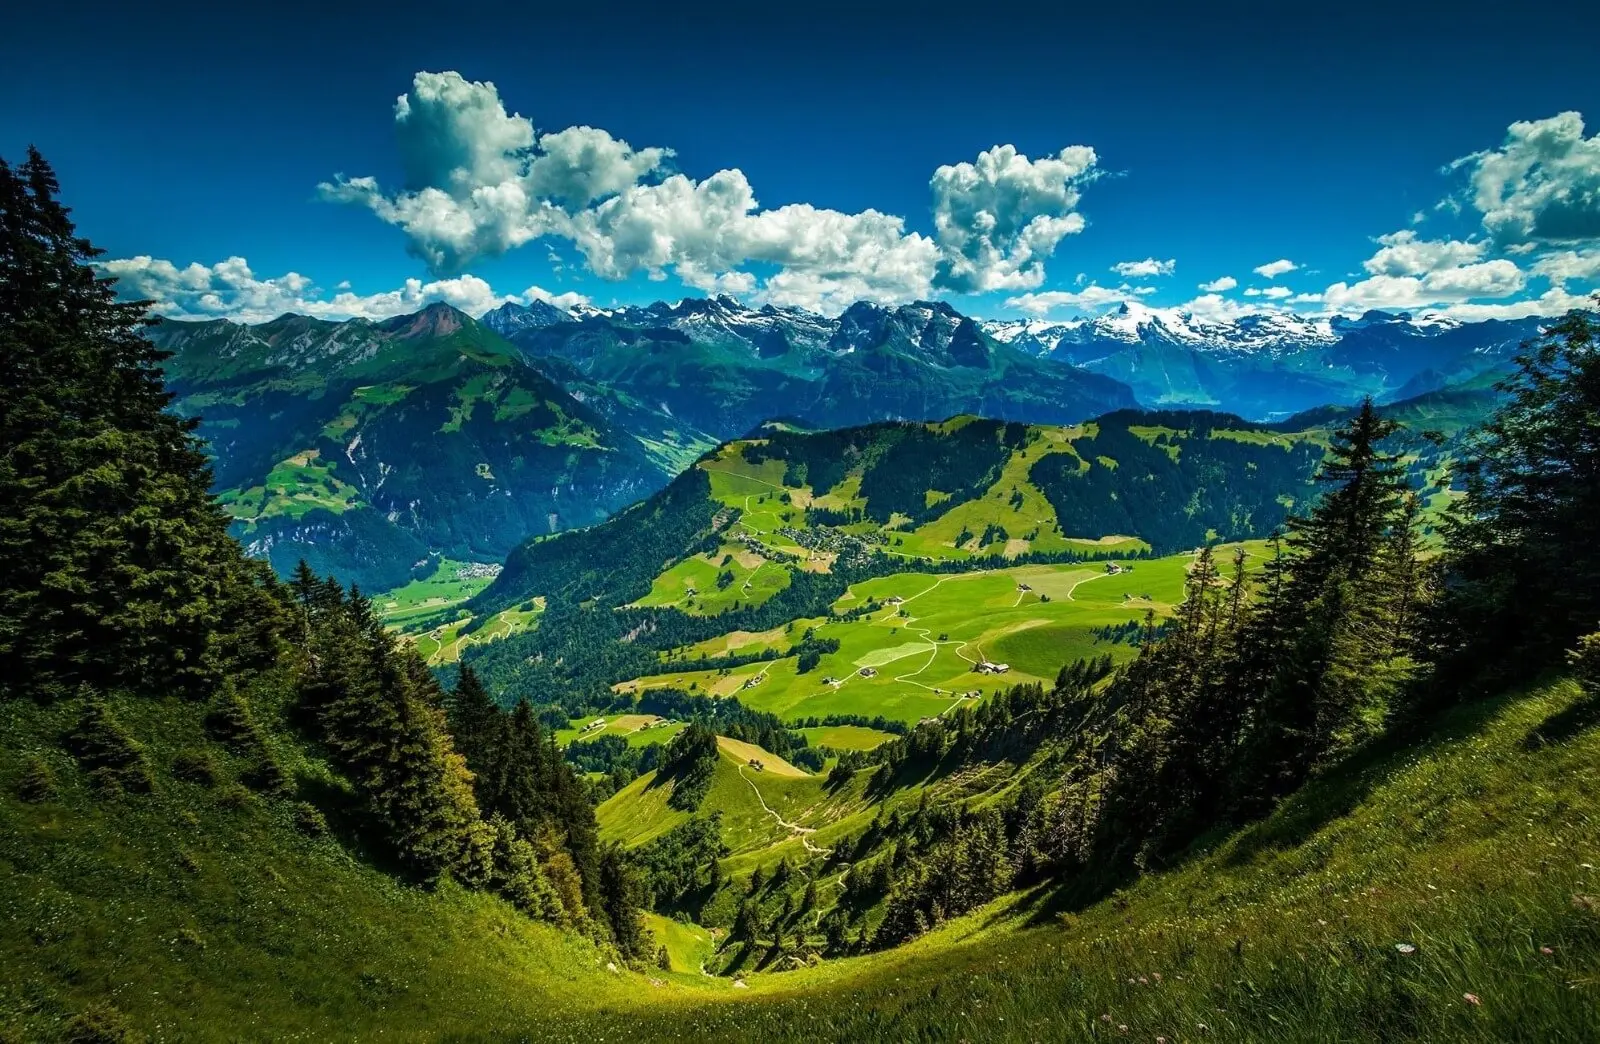
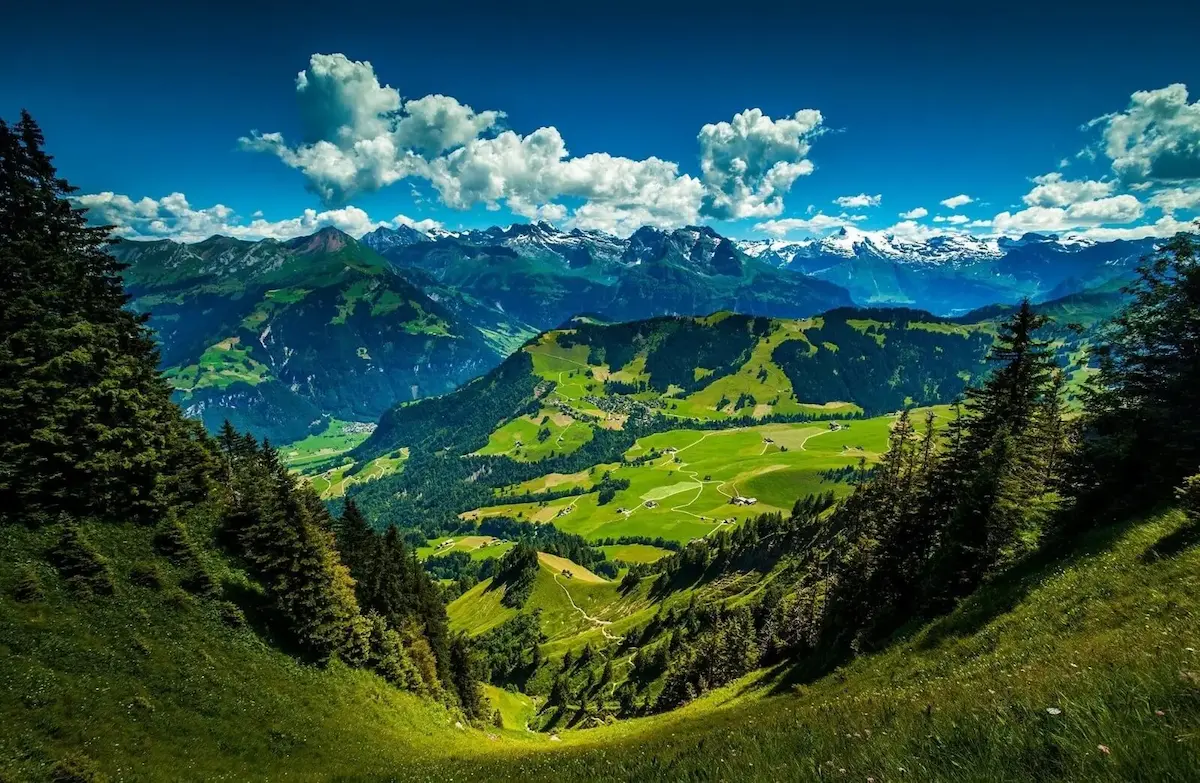
lightboximage bole notun component baniachi

Changed region(s): [[0.74, 0.3065, 0.8325, 0.3372]]

diff --git a/components/LightboxImage.tsx b/components/LightboxImage.tsx
@@ -1,0 +1,217 @@
+"use client";
+
+import { useEffect, useMemo, useState, useCallback } from "react";
+import Image from "next/image";
+import { ChevronLeft, ChevronRight, X } from "lucide-react";
+
+type LightboxImage = {
+  src: string;
+  alt: string;
+  title?: string;
+};
+
+interface ImageLightboxProps {
+  images: LightboxImage[];
+  isOpen: boolean;
+  initialIndex?: number;
+  onClose: () => void;
+}
+
+/**
+ * Detect whether an image URL is portrait or landscape by loading it
+ * off-screen. Returns the aspect ratio (width / height).
+ */
+function useImageAspectRatio(src: string | undefined) {
+  const [ratio, setRatio] = useState<number | null>(null);
+  const [loadedSrc, setLoadedSrc] = useState<string | undefined>(undefined);
+
+  useEffect(() => {
+    if (!src) return;
+    const img = new window.Image();
+    img.onload = () => {
+      setLoadedSrc(src);
+      setRatio(img.naturalWidth / img.naturalHeight);
+    };
+    img.src = src;
+  }, [src]);
+
+  return loadedSrc === src ? ratio : null;
+}
+
+export default function ImageLightbox({
+  images,
+  isOpen,
+  initialIndex = 0,
+  onClose,
+}: ImageLightboxProps) {
+  const safeInitialIndex = useMemo(() => {
+    if (!images.length) return 0;
+    if (initialIndex < 0) return 0;
+    if (initialIndex > images.length - 1) return images.length - 1;
+    return initialIndex;
+  }, [images.length, initialIndex]);
+
+  const [currentIndex, setCurrentIndex] = useState(safeInitialIndex);
+  const [lastInitialIndex, setLastInitialIndex] = useState(safeInitialIndex);
+
+  if (safeInitialIndex !== lastInitialIndex) {
+    setCurrentIndex(safeInitialIndex);
+    setLastInitialIndex(safeInitialIndex);
+  }
+
+  const currentImage = images[currentIndex];
+  const aspectRatio = useImageAspectRatio(isOpen ? currentImage?.src : undefined);
+
+  // Scroll lock
+  useEffect(() => {
+    if (isOpen) document.body.style.overflow = "hidden";
+    return () => { document.body.style.overflow = ""; };
+  }, [isOpen]);
+
+  const goPrev = useCallback(() =>
+    setCurrentIndex((prev) => (prev - 1 + images.length) % images.length),
+    [images.length]
+  );
+
+  const goNext = useCallback(() =>
+    setCurrentIndex((prev) => (prev + 1) % images.length),
+    [images.length]
+  );
+
+  // Keyboard navigation
+  useEffect(() => {
+    if (!isOpen || !images.length) return;
+    const onKeyDown = (e: KeyboardEvent) => {
+      if (e.key === "Escape") onClose();
+      if (e.key === "ArrowLeft") goPrev();
+      if (e.key === "ArrowRight") goNext();
+    };
+    window.addEventListener("keydown", onKeyDown);
+    return () => window.removeEventListener("keydown", onKeyDown);
+  }, [images.length, isOpen, onClose, goPrev, goNext]);
+
+  if (!isOpen || !images.length) return null;
+
+  /**
+   * Layout strategy:
+   * - Portrait  (ratio < 1):  tall card, constrained by viewport height
+   * - Square    (ratio ≈ 1):  treated like portrait
+   * - Landscape (ratio > 1):  wide card, constrained by viewport width
+   *
+   * We let the <img> render at its natural aspect ratio via `aspect-ratio`
+   * so there is NEVER any empty space / black bars inside the polaroid frame.
+   */
+  const isLandscape = aspectRatio !== null && aspectRatio > 1;
+
+  const polaroidMaxWidth = isLandscape
+    ? "min(90vw, 800px)"      // wide for landscape
+    : "min(75vw, 480px)";     // narrower for portrait / square
+
+  // CSS aspect-ratio value e.g. "4 / 3" or "3 / 4"
+  const cssAspectRatio = aspectRatio
+    ? `${aspectRatio} / 1`
+    : "1 / 1"; // square placeholder while loading
+
+  return (
+    <div
+      className="fixed inset-0 z-50 flex items-center justify-center p-4 backdrop-blur-md"
+      style={{ background: "rgba(0,0,0,0.72)" }}
+      onClick={onClose}
+      role="dialog"
+      aria-modal="true"
+      aria-label="Image lightbox"
+    >
+      {/* Close */}
+      <button
+        type="button"
+        onClick={onClose}
+        className="absolute top-4 right-4 z-10 rounded-full border border-white/30 bg-black/50 p-2 text-white hover:bg-black/70 transition-colors"
+        aria-label="Close lightbox"
+      >
+        <X className="h-5 w-5" />
+      </button>
+
+      {/* Prev */}
+      <button
+        type="button"
+        onClick={(e) => { e.stopPropagation(); goPrev(); }}
+        className="absolute left-4 z-10 rounded-full border border-white/30 bg-black/50 p-2 text-white hover:bg-black/70 transition-colors"
+        aria-label="Previous image"
+      >
+        <ChevronLeft className="h-6 w-6" />
+      </button>
+
+      {/* Polaroid card — width adapts to orientation */}
+      <div
+        className="relative animate-[zoomIn_0.3s_ease]"
+        style={{ width: polaroidMaxWidth }}
+        onClick={(e) => e.stopPropagation()}
+      >
+        <div className="bg-white rounded-lg p-3 pb-8 shadow-2xl">
+          {/* 
+            Image wrapper: aspect-ratio drives the height.
+            `overflow-hidden` clips any sub-pixel rounding.
+            No black background — white card shows through while loading.
+          */}
+          <div
+            className="relative w-full overflow-hidden rounded-sm"
+            style={{ aspectRatio: cssAspectRatio }}
+          >
+            {/* Skeleton shimmer while aspect ratio resolves */}
+            {aspectRatio === null && (
+              <div className="absolute inset-0 animate-pulse bg-gray-200" />
+            )}
+
+            <Image
+              key={currentImage.src}
+              src={currentImage.src}
+              alt={currentImage.alt}
+              fill
+              /**
+               * object-cover fills the exact aspect-ratio box edge-to-edge.
+               * Because the box IS the image's own ratio, no cropping occurs
+               * and no black bars appear — it just fills perfectly.
+               */
+              className="object-cover transition-opacity duration-300"
+              sizes="(max-width: 768px) 90vw, 800px"
+              priority
+            />
+          </div>
+
+          {/* Caption */}
+          <div className="font-handwriting mt-4 text-center text-3xl font-bold text-gray-800 leading-tight px-2">
+            {currentImage.title ?? currentImage.alt}
+          </div>
+        </div>
+
+        {/* Dot indicators */}
+        {images.length > 1 && (
+          <div className="mt-4 flex justify-center gap-1.5">
+            {images.map((_, i) => (
+              <button
+                key={i}
+                onClick={(e) => { e.stopPropagation(); setCurrentIndex(i); }}
+                className={`h-1.5 rounded-full transition-all ${
+                  i === currentIndex
+                    ? "w-5 bg-white"
+                    : "w-1.5 bg-white/40 hover:bg-white/70"
+                }`}
+                aria-label={`Go to image ${i + 1}`}
+              />
+            ))}
+          </div>
+        )}
+      </div>
+
+      {/* Next */}
+      <button
+        type="button"
+        onClick={(e) => { e.stopPropagation(); goNext(); }}
+        className="absolute right-4 z-10 rounded-full border border-white/30 bg-black/50 p-2 text-white hover:bg-black/70 transition-colors"
+        aria-label="Next image"
+      >
+        <ChevronRight className="h-6 w-6" />
+      </button>
+    </div>
+  );
+}

diff --git a/app/globals.css b/app/globals.css
@@ -89,40 +89,6 @@
 @utility button-shadow-hover {
   box-shadow: 8px 8px var(--chart-5);
 }
-/* 
-.dark {
-  --background: oklch(0.141 0.005 285.823);
-  --foreground: oklch(0.985 0 0);
-  --card: oklch(0.21 0.006 285.885);
-  --card-foreground: oklch(0.985 0 0);
-  --popover: oklch(0.21 0.006 285.885);
-  --popover-foreground: oklch(0.985 0 0);
-  --primary: oklch(0.70 0.15 162);
-  --primary-foreground: oklch(0.26 0.05 173);
-  --secondary: oklch(0.274 0.006 286.033);
-  --secondary-foreground: oklch(0.985 0 0);
-  --muted: oklch(0.274 0.006 286.033);
-  --muted-foreground: oklch(0.705 0.015 286.067);
-  --accent: oklch(0.274 0.006 286.033);
-  --accent-foreground: oklch(0.985 0 0);
-  --destructive: oklch(0.704 0.191 22.216);
-  --border: oklch(1 0 0 / 10%);
-  --input: oklch(1 0 0 / 15%);
-  --ring: oklch(0.552 0.016 285.938);
-  --chart-1: oklch(0.85 0.13 165);
-  --chart-2: oklch(0.77 0.15 163);
-  --chart-3: oklch(0.70 0.15 162);
-  --chart-4: oklch(0.60 0.13 163);
-  --chart-5: oklch(0.51 0.10 166);
-  --sidebar: oklch(0.21 0.006 285.885);
-  --sidebar-foreground: oklch(0.985 0 0);
-  --sidebar-primary: oklch(0.77 0.15 163);
-  --sidebar-primary-foreground: oklch(0.26 0.05 173);
-  --sidebar-accent: oklch(0.274 0.006 286.033);
-  --sidebar-accent-foreground: oklch(0.985 0 0);
-  --sidebar-border: oklch(1 0 0 / 10%);
-  --sidebar-ring: oklch(0.552 0.016 285.938);
-} */
 
 @layer base {
   * {
@@ -142,42 +108,6 @@
     @apply text-2xl font-bold;
   }
 }
-/* 
----break--- */
-
-/* .dark {
-  --background: oklch(0.145 0 0);
-  --foreground: oklch(0.985 0 0);
-  --card: oklch(0.205 0 0);
-  --card-foreground: oklch(0.985 0 0);
-  --popover: oklch(0.205 0 0);
-  --popover-foreground: oklch(0.985 0 0);
-  --primary: oklch(0.7 0.12 183);
-  --primary-foreground: oklch(0.28 0.04 193);
-  --secondary: oklch(0.274 0.006 286.033);
-  --secondary-foreground: oklch(0.985 0 0);
-  --muted: oklch(0.269 0 0);
-  --muted-foreground: oklch(0.708 0 0);
-  --accent: oklch(0.7 0.12 183);
-  --accent-foreground: oklch(0.28 0.04 193);
-  --destructive: oklch(0.704 0.191 22.216);
-  --border: oklch(1 0 0 / 10%);
-  --input: oklch(1 0 0 / 15%);
-  --ring: oklch(0.556 0 0);
-  --chart-1: oklch(0.85 0.13 181);
-  --chart-2: oklch(0.78 0.13 182);
-  --chart-3: oklch(0.7 0.12 183);
-  --chart-4: oklch(0.6 0.1 185);
-  --chart-5: oklch(0.51 0.09 186);
-  --sidebar: oklch(0.205 0 0);
-  --sidebar-foreground: oklch(0.985 0 0);
-  --sidebar-primary: oklch(0.78 0.13 182);
-  --sidebar-primary-foreground: oklch(0.28 0.04 193);
-  --sidebar-accent: oklch(0.7 0.12 183);
-  --sidebar-accent-foreground: oklch(0.28 0.04 193);
-  --sidebar-border: oklch(1 0 0 / 10%);
-  --sidebar-ring: oklch(0.556 0 0);
-} */
 
 @utility glassmorphic {
   @apply rounded-lg border border-white/20 bg-white/30 backdrop-blur-md;

diff --git a/app/(customer)/gallery/page.tsx b/app/(customer)/gallery/page.tsx
@@ -2,8 +2,9 @@
 
 import { useMemo, useState } from "react";
 import Image from "next/image";
-import ImageLightbox from "@/components/ImageLightbox";
+// import ImageLightbox from "@/components/ImageLightbox";
 import WavyHero from "@/components/WavyHero";
+import LightboxImage from "@/components/LightboxImage";
 
 type GalleryImageData = {
   id: string;
@@ -161,7 +162,7 @@ const GalleryPage = () => {
               key={image.id}
               type="button"
               onClick={() => setSelectedIndex(index)}
-              className={`${rotations[index % rotations.length]} bg-white p-3 pb-6 shadow transition-all duration-300 hover:rotate-0 hover:shadow-xl`}
+              className={`${rotations[index % rotations.length]} bg-white rounded-lg p-3 pb-6 shadow transition-all duration-300 hover:rotate-0 hover:shadow-xl`}
             >
               <Image
                 src={image.src}
@@ -178,7 +179,13 @@ const GalleryPage = () => {
           ))}
         </div>
 
-        <ImageLightbox
+        {/* <ImageLightbox
+          images={lightboxImages}
+          isOpen={selectedIndex !== null}
+          initialIndex={selectedIndex ?? 0}
+          onClose={() => setSelectedIndex(null)}
+        /> */}
+        <LightboxImage
           images={lightboxImages}
           isOpen={selectedIndex !== null}
           initialIndex={selectedIndex ?? 0}

diff --git a/app/(customer)/about/page.tsx b/app/(customer)/about/page.tsx
@@ -1,14 +1,12 @@
 import Image from "next/image";
 import { StatItem, WhyBestFeature, memberData } from "@/lib/constants";
 import HomeSections from "@/components/reusable/HomeSections";
-import { Button } from "@/components/ui/button";
 import WavyHero from "@/components/WavyHero";
 import {
   Dialog,
   DialogContent,
   DialogDescription,
   DialogHeader,
-  DialogTitle,
   DialogTrigger,
 } from "@/components/ui/dialog";
 import ContactForm from "@/components/forms/ContactForm";
@@ -97,6 +95,8 @@ const AboutPage = () => {
                 src="/gallery/bsf1.webp"
                 alt="Travel gear"
                 fill
+                quality={60}
+                sizes="(max-width: 768px) 100vw, 38vw"
                 className="object-cover"
               />
             </div>
@@ -105,6 +105,8 @@ const AboutPage = () => {
                 src="/gallery/bsf2.webp"
                 alt="Traveler on mountain"
                 fill
+                quality={60}
+                sizes="(max-width: 768px) 100vw, 38vw"
                 className="object-cover"
               />
             </div>

diff --git a/components/ImageLightbox.tsx b/components/ImageLightbox.tsx
@@ -111,12 +111,9 @@ export default function ImageLightbox({
         className="relative w-full max-w-3xl"
         onClick={(e) => e.stopPropagation()}
       >
-        {/* Stacked layers (no rotation) */}
-        <div className="absolute inset-0 translate-x-2 translate-y-2 bg-white opacity-60 shadow-lg" />
-        <div className="absolute inset-0 translate-x-4 translate-y-4 bg-white opacity-40 shadow-md" />
 
         {/* Main Polaroid */}
-        <div className="relative animate-[zoomIn_0.3s_ease] bg-white p-4 pb-8 shadow-2xl">
+        <div className="relative animate-[zoomIn_0.3s_ease] bg-white rounded-lg p-4 pb-8 shadow-2xl">
           <div className="relative h-[45vh] w-full overflow-hidden bg-black sm:h-[60vh]">
             <Image
               key={currentImage.src}

diff --git a/components/BookingReceipt.tsx b/components/BookingReceipt.tsx
@@ -55,7 +55,7 @@ const BookingReceipt = ({
   };
 
   return (
-    <Card className="w-full max-w-2xl bg-white shadow-lg print:border-2 print:shadow-none">
+    <Card className="w-full max-w-2xl bg-white shadow-lg print:border-2 print:shadow-none mt-16">
       {/* Success Header */}
       <CardHeader className="pb-2 text-center">
         <div className="mx-auto mb-4 flex h-16 w-16 items-center justify-center rounded-full bg-green-100 print:bg-green-200">
